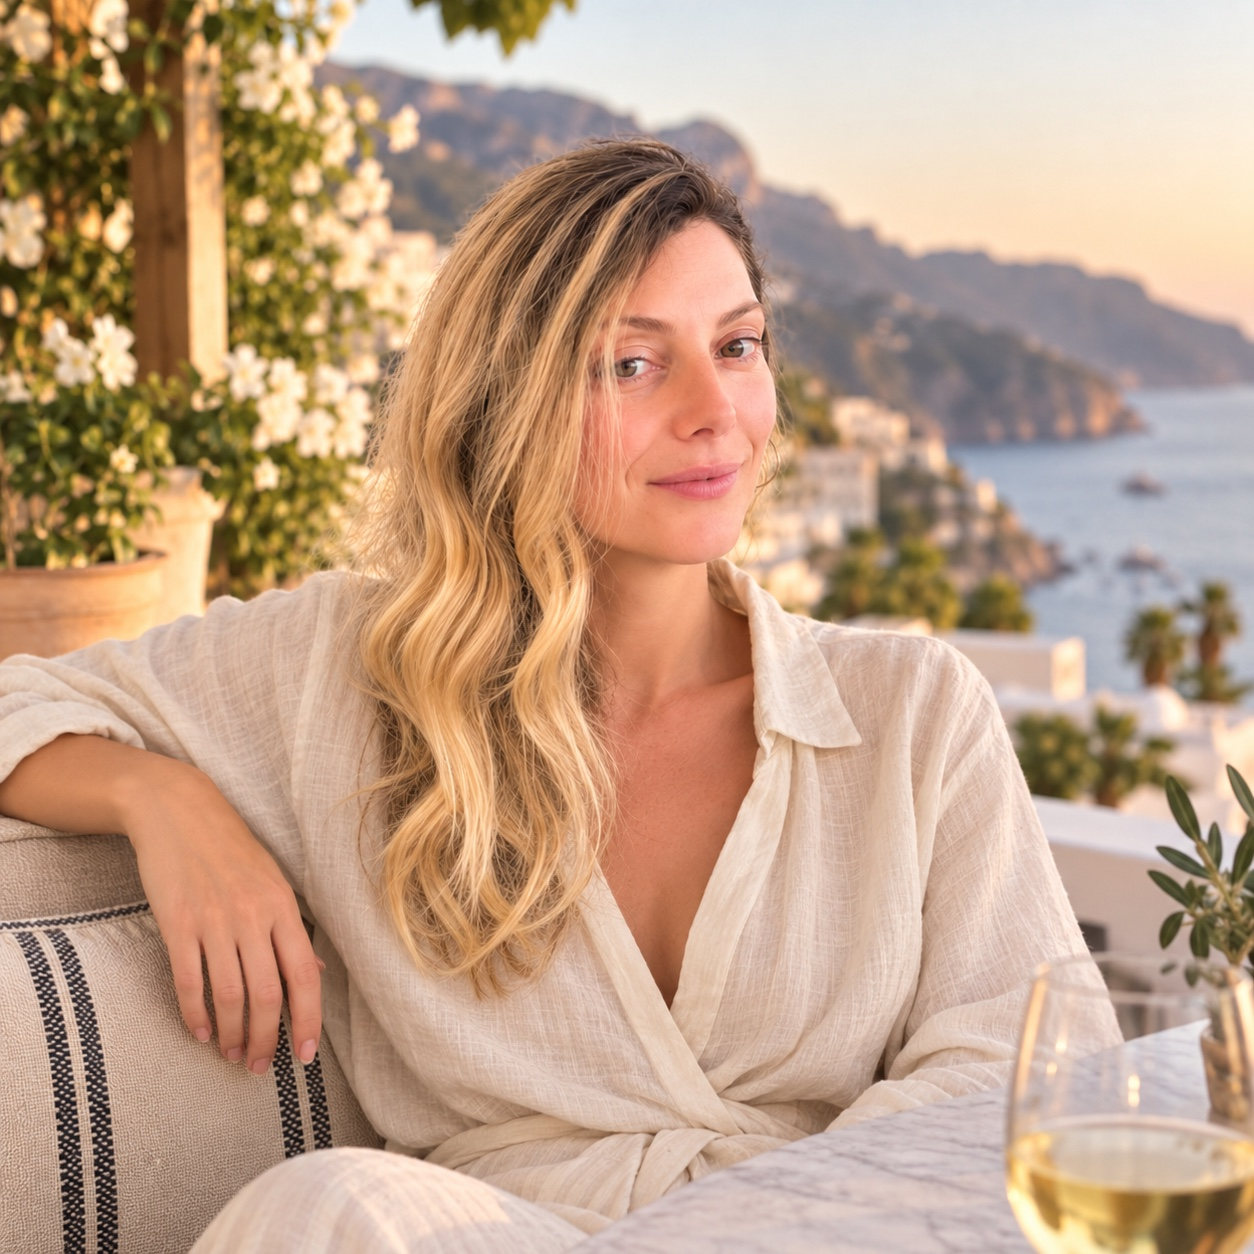
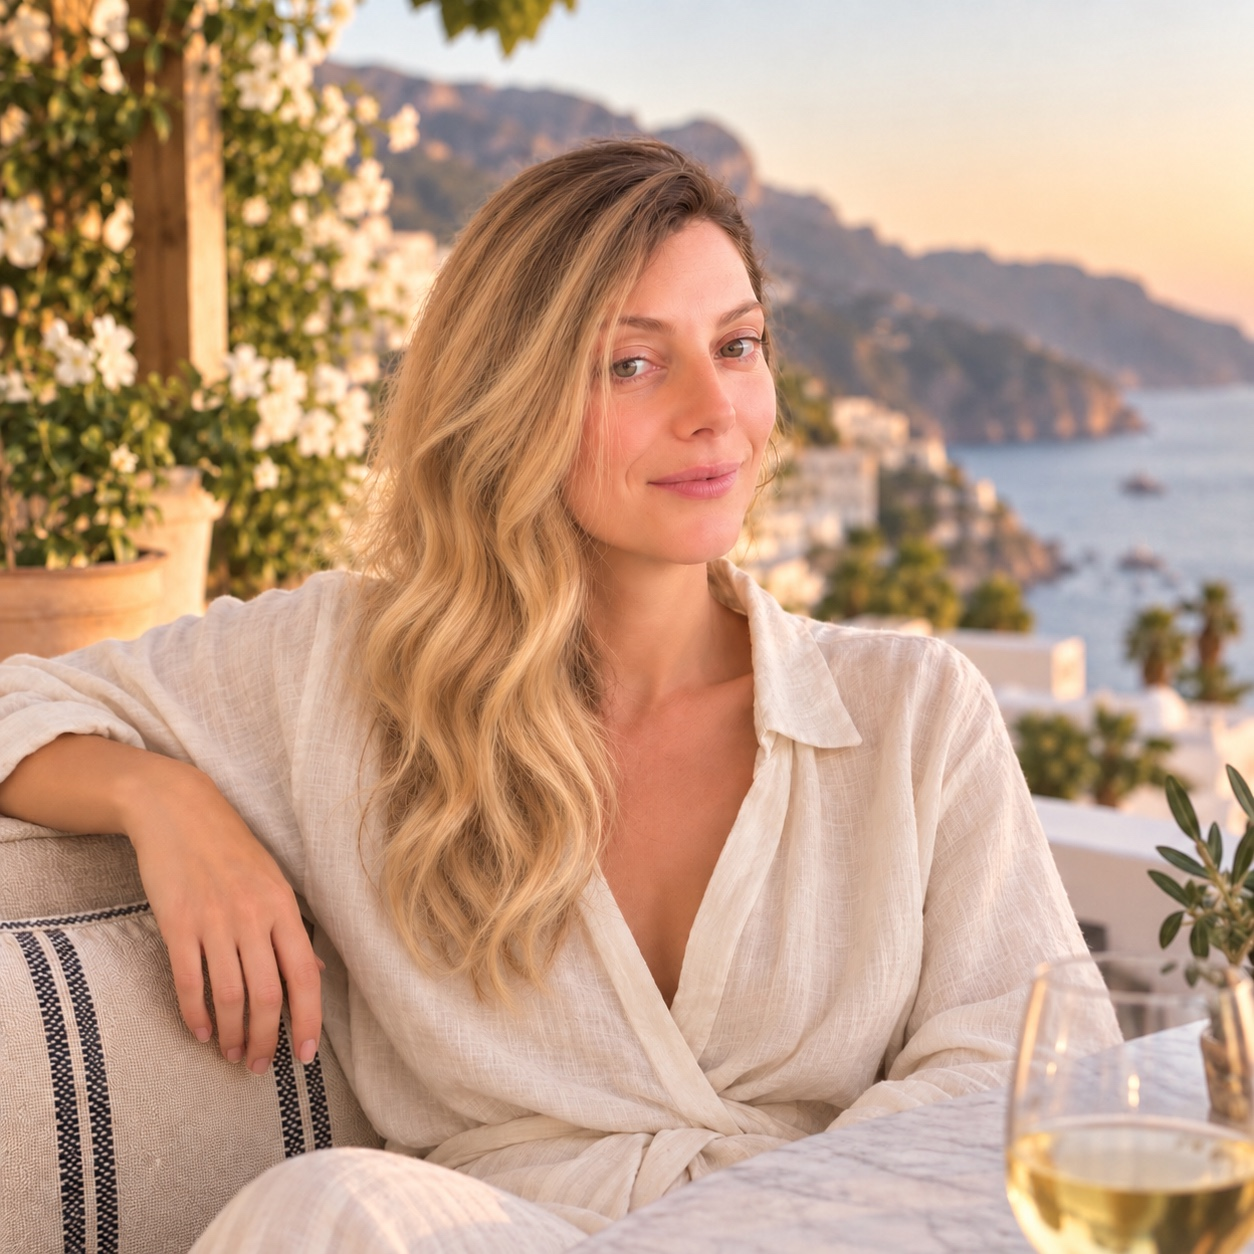
Update About page portrait

diff --git a/about.html b/about.html
@@ -100,7 +100,7 @@ j=d.createElement(s),dl=l!='dataLayer'?'&l='+l:'';j.async=true;j.src=
             <p>I spend a lot of time thinking about hotels, where to go next, and the little things that make a trip feel special.</p>
           </div>
           <figure class="about-portrait">
-            <img src="/images/about-sara.jpg?v=20260914-1" alt="Sara, the travel advisor behind Late Checkout, overlooking the coast" />
+            <img src="/images/about-sara.jpg?v=20260914-2" alt="Sara, the travel advisor behind Late Checkout, overlooking the coast" />
           </figure>
         </article>
 
